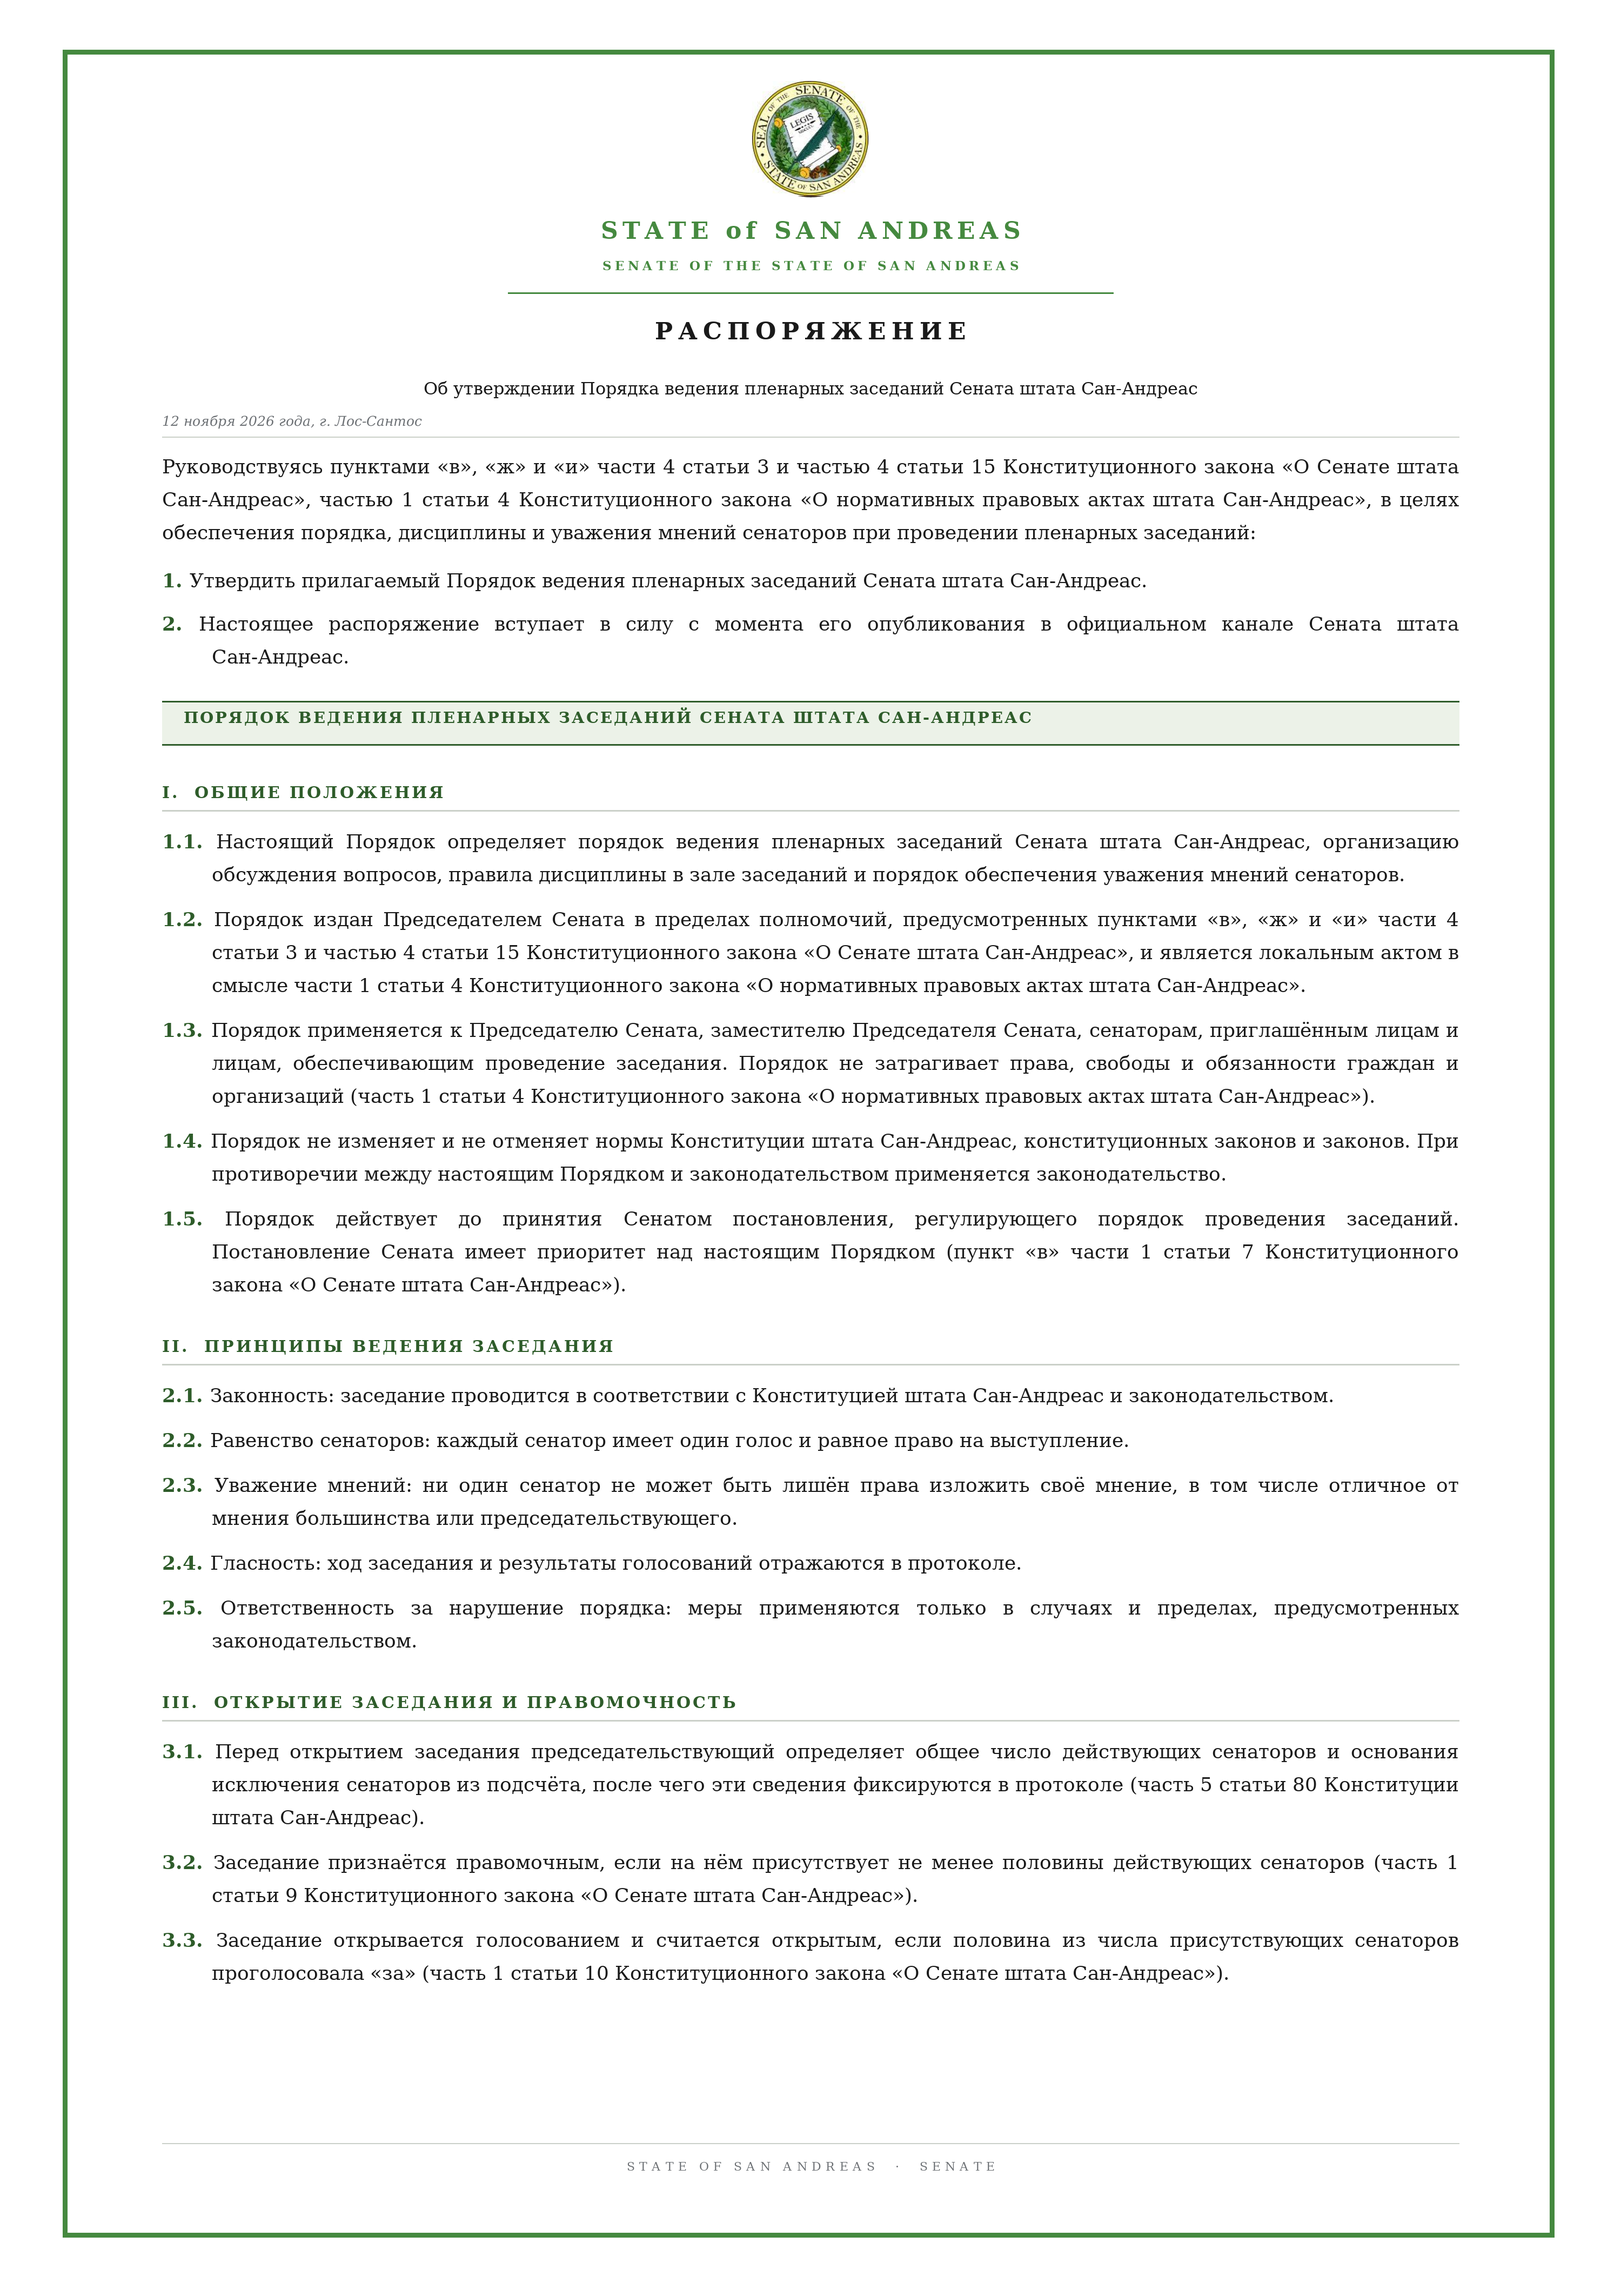
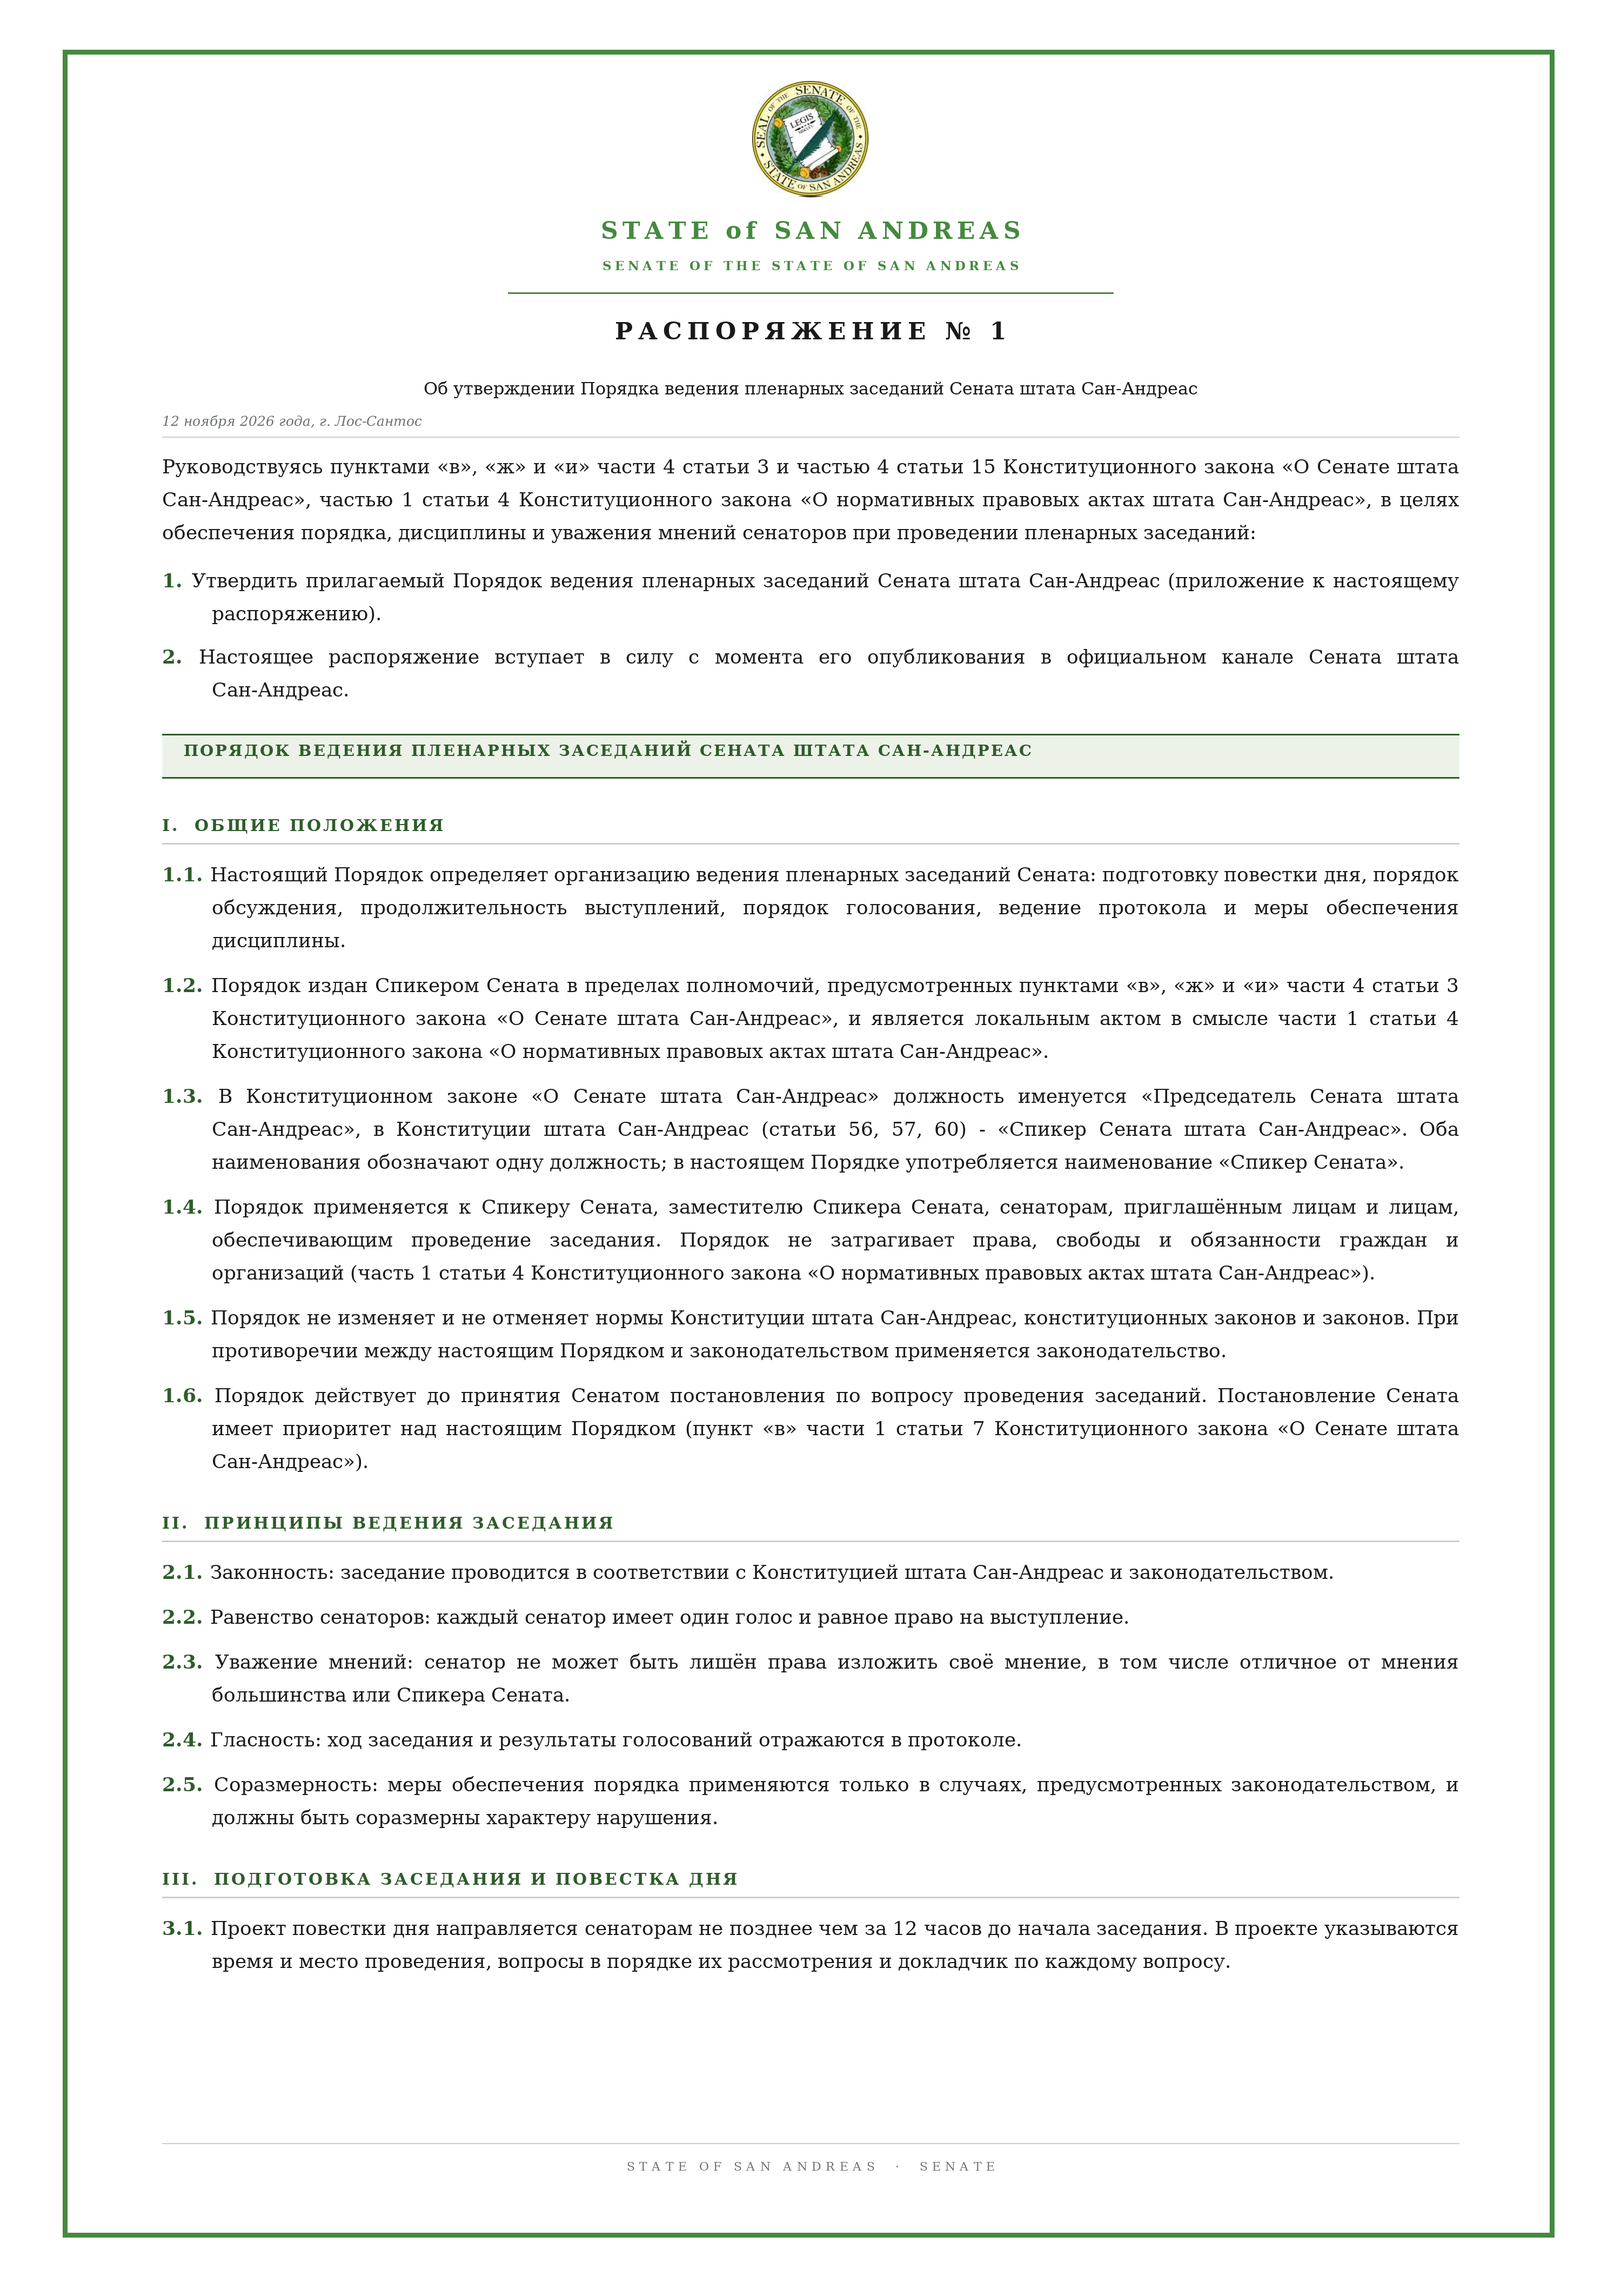
Порядок ведения заседаний: номер распоряжения, единая терминология, отсылки вместо дублирования

diff --git a/README.md b/README.md
@@ -12,7 +12,7 @@
 | `Аналитика/` | Разборы: статус IAD при задержании, схема аннулирования лицензий правоохранительного блока: причины, нормы, связи (промпт для картинки + SVG-референс), исходные заметки (`IAD.txt`). | справочно |
 | `Аналитика/Новое законодательство (12.11.2026)/` | Сводка изменений законодательства после загрузки папки `Новая законка`: что и где изменилось по каждому акту (Дорожный кодекс ст. 10–10.1; УК ст. 5.8, 12.8, 13.4; КЗ «О Сенате» ст. 15 ч. 3; Регламент ОГП ст. 16 и 22 ч. 3; Закон об ОГП ст. 39 ч. 5), перечень добавленных документов, переименований и материалов, которых нет в новой папке. | справочно |
 | `Сенат/Протокол заседания (09.11.2026)/` | Три варианта восстановления протокола заседания 09.11.2026, который в ходе заседания не велся. Вариант А - постановление Сената от 12.11 о подтверждении итогов и состава; вариант Б - протокол, составленный 12.11 по журналу голосований с прямой оговоркой о дате; PNG-версия протокола - две страницы A4 (300 dpi) в парадной вёрстке с эмблемой и печатью, в таблице состава графа «№ паспорта» с оговоркой под таблицей. 16 сенаторов, порог 9 голосов, таблица четырёх голосований. | на согласовании |
-| `Сенат/Порядок ведения заседаний (12.11.2026)/` | Распоряжение Председателя Сената от 12.11.2026 об утверждении Порядка ведения пленарных заседаний - локальный акт по ст. 4 ч. 1 КЗ «О нормативных правовых актах» на основании п. «в», «ж», «и» ч. 4 ст. 3 и ч. 4 ст. 15 КЗ «О Сенате». Десять разделов: общие положения, принципы, открытие и правомочность, повестка дня, порядок обсуждения, дисциплина в зале, голосование, протокол, протесты, заключительные положения. Три страницы A4 300 dpi. | к опубликованию |
+| `Сенат/Порядок ведения заседаний (12.11.2026)/` | Распоряжение Спикера Сената № 1 от 12.11.2026 об утверждении Порядка ведения пленарных заседаний - локальный акт по ст. 4 ч. 1 КЗ «О нормативных правовых актах» на основании п. «в», «ж», «и» ч. 4 ст. 3 и ч. 4 ст. 15 КЗ «О Сенате». Десять разделов; переписанные нормы закона заменены отсылками, терминология унифицирована по Конституции (Спикер Сената, с оговоркой о равнозначности «Председателя» в КЗ). Три страницы A4 300 dpi. | к опубликованию |
 | `Сенат/Уведомление о перенесении рассмотрения (12.11.2026)/` | Резолюция Спикера Сената от 12.11.2026 о перенесении рассмотрения законодательной инициативы на следующее пленарное заседание. Инициатива подана 11.11.2026 в 09:23 председателем партии, а не сенатором (ст. 60 ч. 1 Конституции, ст. 2 ч. 4 и ст. 20 ч. 4 КЗ «О нормативных правовых актах»), поэтому в повестку 13.11 не включается, но вопрос вносится в проект повестки следующего заседания. Пункт 4: повторное личное внесение сенатором в ходе заседания 13.11 рассмотрено не будет, кроме двух случаев - подписи более половины действующих сенаторов (при 16 сенаторах не менее 9, ст. 9 ч. 4 КЗ «О Сенате») и решение Сената о включении вопроса в повестку (ст. 80 ч. 5 Конституции). Две страницы A4 300 dpi. | к подаче |
 | `Аналитика/Коллизии — Закон о РПО/` | Разбор № 1 серии «коллизии и дыры»: полный текст Закона «О деятельности региональных правоохранительных органах» с красными пометками неработающих норм и краткими пояснениями; сводка 15 положений (16 фрагментов), таблица 12 внутренних дефектов, итог по блокам переработки. | справочно |
 | `Аналитика/Коллизии — Закон об ОГП/` | Разбор № 2 серии: полный текст Закона «О деятельности офиса Генерального прокурора» с красными пометками неработающих норм и краткими пояснениями; сводка 22 положений (23 фрагмента). | справочно |
